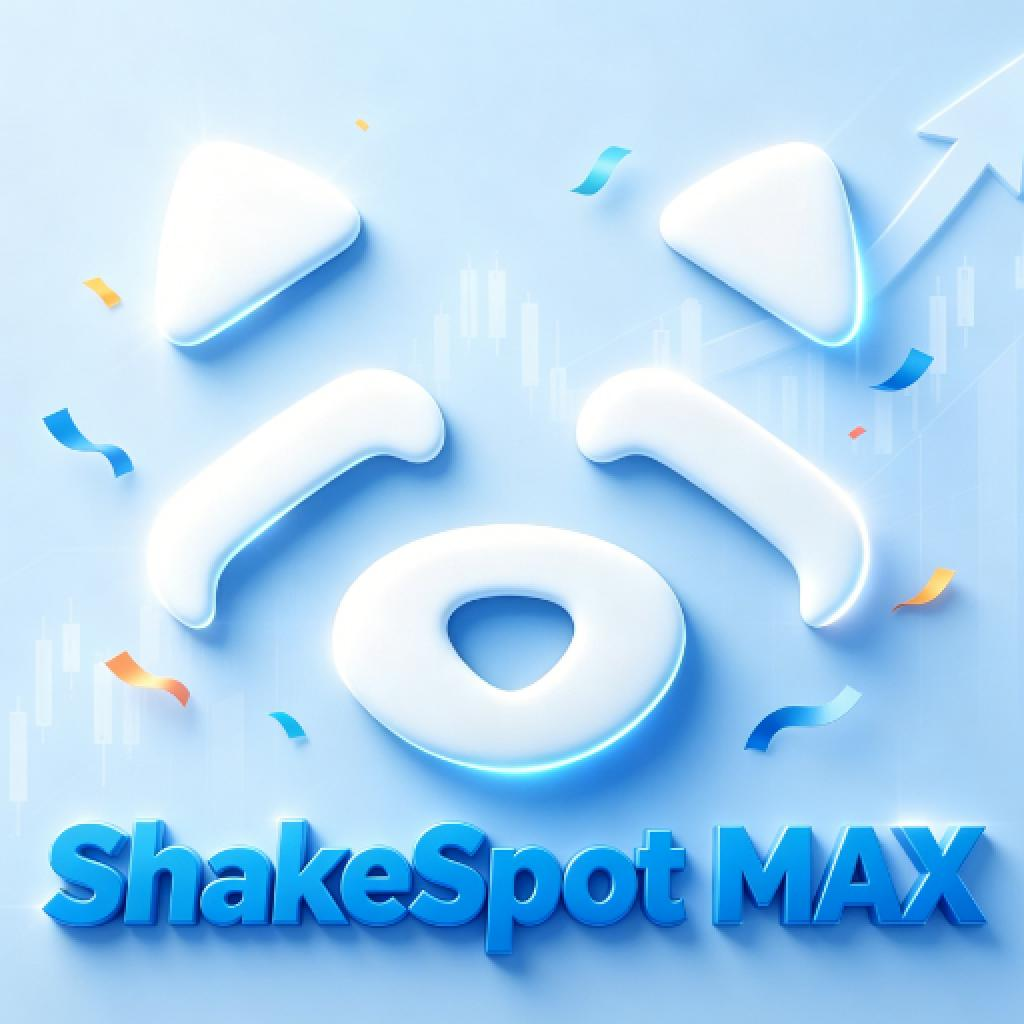
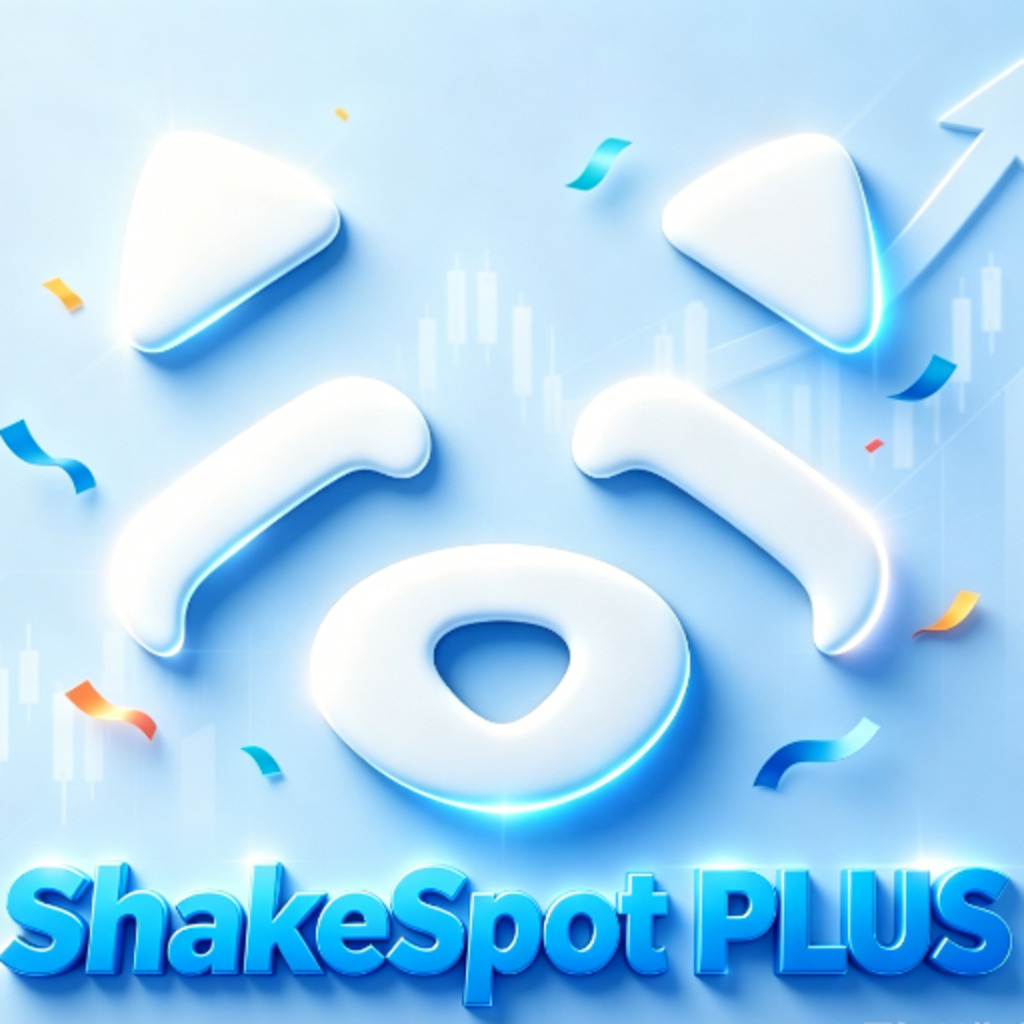
1

diff --git a/ShakeSpot-MAX/privacy.html b/ShakeSpot-MAX/privacy.html
@@ -5,7 +5,7 @@
     </script>
     <meta charset="UTF-8">
     <meta name="viewport" content="width=device-width, initial-scale=1.0">
-    <title>ShakeSpot MAX</title>
+    <title>ShakeSpot PLUS</title>
     <script>
         !function(e,n){"object"==typeof exports&&"undefined"!=typeof module?module.exports=n():"function"==typeof define&&define.amd?define(n):(e=e||self).uni=n()}(this,(function(){"use strict";try{var e={};Object.defineProperty(e,"passive",{get:function(){!0}}),window.addEventListener("test-passive",null,e)}catch(e){}var n=Object.prototype.hasOwnProperty;function i(e,i){return n.call(e,i)}var t=[];function o(){return window.__dcloud_weex_postMessage||window.__dcloud_weex_}function a(){return window.__uniapp_x_postMessage||window.__uniapp_x_}var r=function(e,n){var i={options:{timestamp:+new Date},name:e,arg:n};if(a()){if("postMessage"===e){var r={data:n};return window.__uniapp_x_postMessage?window.__uniapp_x_postMessage(r):window.__uniapp_x_.postMessage(JSON.stringify(r))}var d={type:"WEB_INVOKE_APPSERVICE",args:{data:i,webviewIds:t}};window.__uniapp_x_postMessage?window.__uniapp_x_postMessageToService(d):window.__uniapp_x_.postMessageToService(JSON.stringify(d))}else if(o()){if("postMessage"===e){var s={data:[n]};return window.__dcloud_weex_postMessage?window.__dcloud_weex_postMessage(s):window.__dcloud_weex_.postMessage(JSON.stringify(s))}var w={type:"WEB_INVOKE_APPSERVICE",args:{data:i,webviewIds:t}};window.__dcloud_weex_postMessage?window.__dcloud_weex_postMessageToService(w):window.__dcloud_weex_.postMessageToService(JSON.stringify(w))}else{if(!window.plus)return window.parent.postMessage({type:"WEB_INVOKE_APPSERVICE",data:i,pageId:""},"*");if(0===t.length){var u=plus.webview.currentWebview();if(!u)throw new Error("plus.webview.currentWebview() is undefined");var g=u.parent(),v="";v=g?g.id:u.id,t.push(v)}if(plus.webview.getWebviewById("__uniapp__service"))plus.webview.postMessageToUniNView({type:"WEB_INVOKE_APPSERVICE",args:{data:i,webviewIds:t}},"__uniapp__service");else{var c=JSON.stringify(i);plus.webview.getLaunchWebview().evalJS('UniPlusBridge.subscribeHandler("'.concat("WEB_INVOKE_APPSERVICE",'",').concat(c,",").concat(JSON.stringify(t),");"))}}},d={navigateTo:function(){var e=arguments.length>0&&void 0!==arguments[0]?arguments[0]:{},n=e.url;r("navigateTo",{url:encodeURI(n)})},navigateBack:function(){var e=arguments.length>0&&void 0!==arguments[0]?arguments[0]:{},n=e.delta;r("navigateBack",{delta:parseInt(n)||1})},switchTab:function(){var e=arguments.length>0&&void 0!==arguments[0]?arguments[0]:{},n=e.url;r("switchTab",{url:encodeURI(n)})},reLaunch:function(){var e=arguments.length>0&&void 0!==arguments[0]?arguments[0]:{},n=e.url;r("reLaunch",{url:encodeURI(n)})},redirectTo:function(){var e=arguments.length>0&&void 0!==arguments[0]?arguments[0]:{},n=e.url;r("redirectTo",{url:encodeURI(n)})},getEnv:function(e){a()?e({uvue:!0}):o()?e({nvue:!0}):window.plus?e({plus:!0}):e({h5:!0})},postMessage:function(){var e=arguments.length>0&&void 0!==arguments[0]?arguments[0]:{};r("postMessage",e.data||{})}},s=/uni-app/i.test(navigator.userAgent),w=/Html5Plus/i.test(navigator.userAgent),u=/complete|loaded|interactive/;var g=window.my&&navigator.userAgent.indexOf(["t","n","e","i","l","C","y","a","p","i","l","A"].reverse().join(""))>-1;var v=window.swan&&window.swan.webView&&/swan/i.test(navigator.userAgent);var c=window.qq&&window.qq.miniProgram&&/QQ/i.test(navigator.userAgent)&&/miniProgram/i.test(navigator.userAgent);var p=window.tt&&window.tt.miniProgram&&/toutiaomicroapp/i.test(navigator.userAgent);var _=window.wx&&window.wx.miniProgram&&/micromessenger/i.test(navigator.userAgent)&&/miniProgram/i.test(navigator.userAgent);var m=window.qa&&/quickapp/i.test(navigator.userAgent);var f=window.ks&&window.ks.miniProgram&&/micromessenger/i.test(navigator.userAgent)&&/miniProgram/i.test(navigator.userAgent);var l=window.tt&&window.tt.miniProgram&&/Lark|Feishu/i.test(navigator.userAgent);var E=window.jd&&window.jd.miniProgram&&/micromessenger/i.test(navigator.userAgent)&&/miniProgram/i.test(navigator.userAgent);var x=window.xhs&&window.xhs.miniProgram&&/xhsminiapp/i.test(navigator.userAgent);for(var S,h=function(){window.UniAppJSBridge=!0,document.dispatchEvent(new CustomEvent("UniAppJSBridgeReady",{bubbles:!0,cancelable:!0}))},y=[function(e){if(s||w)return window.__uniapp_x_postMessage||window.__uniapp_x_||window.__dcloud_weex_postMessage||window.__dcloud_weex_?document.addEventListener("DOMContentLoaded",e):window.plus&&u.test(document.readyState)?setTimeout(e,0):document.addEventListener("plusready",e),d},function(e){if(_)return window.WeixinJSBridge&&window.WeixinJSBridge.invoke?setTimeout(e,0):document.addEventListener("WeixinJSBridgeReady",e),window.wx.miniProgram},function(e){if(c)return window.QQJSBridge&&window.QQJSBridge.invoke?setTimeout(e,0):document.addEventListener("QQJSBridgeReady",e),window.qq.miniProgram},function(e){if(g){document.addEventListener("DOMContentLoaded",e);var n=window.my;return{navigateTo:n.navigateTo,navigateBack:n.navigateBack,switchTab:n.switchTab,reLaunch:n.reLaunch,redirectTo:n.redirectTo,postMessage:n.postMessage,getEnv:n.getEnv}}},function(e){if(v)return document.addEventListener("DOMContentLoaded",e),window.swan.webView},function(e){if(p)return document.addEventListener("DOMContentLoaded",e),window.tt.miniProgram},function(e){if(m){window.QaJSBridge&&window.QaJSBridge.invoke?setTimeout(e,0):document.addEventListener("QaJSBridgeReady",e);var n=window.qa;return{navigateTo:n.navigateTo,navigateBack:n.navigateBack,switchTab:n.switchTab,reLaunch:n.reLaunch,redirectTo:n.redirectTo,postMessage:n.postMessage,getEnv:n.getEnv}}},function(e){if(f)return window.WeixinJSBridge&&window.WeixinJSBridge.invoke?setTimeout(e,0):document.addEventListener("WeixinJSBridgeReady",e),window.ks.miniProgram},function(e){if(l)return document.addEventListener("DOMContentLoaded",e),window.tt.miniProgram},function(e){if(E)return window.JDJSBridgeReady&&window.JDJSBridgeReady.invoke?setTimeout(e,0):document.addEventListener("JDJSBridgeReady",e),window.jd.miniProgram},function(e){if(x)return window.xhs.miniProgram},function(e){return document.addEventListener("DOMContentLoaded",e),d}],M=0;M<y.length&&!(S=y[M](h));M++);S||(S={});var P="undefined"!=typeof uni?uni:{};if(!P.navigateTo)for(var b in S)i(S,b)&&(P[b]=S[b]);return P.webView=S,P}));
     </script>
@@ -43,29 +43,29 @@
         <div class="icon"><img src="./logo.jpg?--pro-target=A" id="logo" alt="logo"></div>
         <div style="height: 60px;"></div>
         <div class="content" style="flex: 1 1 0%;">
-            <div class="text">&nbsp;&nbsp;&nbsp;&nbsp;&nbsp;&nbsp;Privacy Policy for ShakeSpot MAX</div>
-            <div class="text">&nbsp;&nbsp;&nbsp;&nbsp;&nbsp;&nbsp;At ShakeSpot MAX , one of our main priorities is the privacy of our visitors. This Privacy Policy document contains types of information that is collected and recorded by ShakeSpot MAX and how we ShakeSpot MAXe it.</div>
-            <div class="text">&nbsp;&nbsp;&nbsp;&nbsp;&nbsp;&nbsp;If you have additional questions or require more information about our Privacy Policy, do not hesitate to contact ShakeSpot MAX.</div>
+            <div class="text">&nbsp;&nbsp;&nbsp;&nbsp;&nbsp;&nbsp;Privacy Policy for ShakeSpot PLUS</div>
+            <div class="text">&nbsp;&nbsp;&nbsp;&nbsp;&nbsp;&nbsp;At ShakeSpot PLUS , one of our main priorities is the privacy of our visitors. This Privacy Policy document contains types of information that is collected and recorded by ShakeSpot PLUS and how we ShakeSpot PLUSe it.</div>
+            <div class="text">&nbsp;&nbsp;&nbsp;&nbsp;&nbsp;&nbsp;If you have additional questions or require more information about our Privacy Policy, do not hesitate to contact ShakeSpot PLUS.</div>
             <div class="text">&nbsp;&nbsp;&nbsp;&nbsp;&nbsp;&nbsp;Log Files</div>
-            <div class="text">&nbsp;&nbsp;&nbsp;&nbsp;&nbsp;&nbsp;ShakeSpot MAX follows a standard procedure of ShakeSpot MAXing log files. These files log visitors when they ShakeSpot MAXe app. The information collected by log files include internet protocol (IP) addresses, browser type, Internet Service Provider (ISP), date and time stamp, referring/exit pages, and possibly the number of clicks. These are not linked to any information that is personally identifiable. The purpose of the information is for analyzing trends, administering the app, tracking ShakeSpot MAXers' movement on the app, and gathering demographic information.</div>
+            <div class="text">&nbsp;&nbsp;&nbsp;&nbsp;&nbsp;&nbsp;ShakeSpot PLUS follows a standard procedure of ShakeSpot PLUSing log files. These files log visitors when they ShakeSpot PLUSe app. The information collected by log files include internet protocol (IP) addresses, browser type, Internet Service Provider (ISP), date and time stamp, referring/exit pages, and possibly the number of clicks. These are not linked to any information that is personally identifiable. The purpose of the information is for analyzing trends, administering the app, tracking ShakeSpot PLUSers' movement on the app, and gathering demographic information.</div>
             <div class="text">&nbsp;&nbsp;&nbsp;&nbsp;&nbsp;&nbsp;Our Advertising Partners</div>
-            <div class="text">&nbsp;&nbsp;&nbsp;&nbsp;&nbsp;&nbsp;Some of advertisers in our app may ShakeSpot MAXe cookies and web beacons. Our advertising partners are listed below. Each of our advertising partners has their own Privacy Policy for their policies on ShakeSpot MAXer data. For easier access, we hyperlinked to their Privacy Policies below.</div>
+            <div class="text">&nbsp;&nbsp;&nbsp;&nbsp;&nbsp;&nbsp;Some of advertisers in our app may ShakeSpot PLUSe cookies and web beacons. Our advertising partners are listed below. Each of our advertising partners has their own Privacy Policy for their policies on ShakeSpot PLUSer data. For easier access, we hyperlinked to their Privacy Policies below.</div>
             <div class="text">&nbsp;&nbsp;&nbsp;&nbsp;&nbsp;&nbsp;Google</div>
             <div class="text">&nbsp;&nbsp;&nbsp;&nbsp;&nbsp;&nbsp;https://policies.google.com/technologies/ads</div>
             <div class="text">&nbsp;&nbsp;&nbsp;&nbsp;&nbsp;&nbsp;Privacy Policies</div>
-            <div class="text">&nbsp;&nbsp;&nbsp;&nbsp;&nbsp;&nbsp;You may consult this list to find the Privacy Policy for each of the advertising partners of ShakeSpot MAX .</div>
-            <div class="text">&nbsp;&nbsp;&nbsp;&nbsp;&nbsp;&nbsp;Third-party ad servers or ad networks ShakeSpot MAXes technologies like cookies, JavaScript, or Beacons that are ShakeSpot MAXed in their respective advertisements and links that appear on ShakeSpot MAX . They automatically receive your IP address when this occurs. These technologies are ShakeSpot MAXed to measure the effectiveness of their advertising campaigns and/or to personalize the advertising content that you see on this app or other apps or websites.</div>
-            <div class="text">&nbsp;&nbsp;&nbsp;&nbsp;&nbsp;&nbsp;Note that ShakeSpot MAX has no access to or control over these cookies that are ShakeSpot MAXed by third-party advertisers.</div>
+            <div class="text">&nbsp;&nbsp;&nbsp;&nbsp;&nbsp;&nbsp;You may consult this list to find the Privacy Policy for each of the advertising partners of ShakeSpot PLUS .</div>
+            <div class="text">&nbsp;&nbsp;&nbsp;&nbsp;&nbsp;&nbsp;Third-party ad servers or ad networks ShakeSpot PLUSes technologies like cookies, JavaScript, or Beacons that are ShakeSpot PLUSed in their respective advertisements and links that appear on ShakeSpot PLUS . They automatically receive your IP address when this occurs. These technologies are ShakeSpot PLUSed to measure the effectiveness of their advertising campaigns and/or to personalize the advertising content that you see on this app or other apps or websites.</div>
+            <div class="text">&nbsp;&nbsp;&nbsp;&nbsp;&nbsp;&nbsp;Note that ShakeSpot PLUS has no access to or control over these cookies that are ShakeSpot PLUSed by third-party advertisers.</div>
             <div class="text">&nbsp;&nbsp;&nbsp;&nbsp;&nbsp;&nbsp;Third Party Privacy Policies</div>
-            <div class="text">&nbsp;&nbsp;&nbsp;&nbsp;&nbsp;&nbsp;ShakeSpot MAX 's Privacy Policy does not apply to other advertisers or websites. ThShakeSpot MAX, we are advising you to consult the respective Privacy Policies of these third-party ad servers for more detailed information. It may include their practices and instructions about how to opt-out of certain options.</div>
+            <div class="text">&nbsp;&nbsp;&nbsp;&nbsp;&nbsp;&nbsp;ShakeSpot PLUS 's Privacy Policy does not apply to other advertisers or websites. ThShakeSpot PLUS, we are advising you to consult the respective Privacy Policies of these third-party ad servers for more detailed information. It may include their practices and instructions about how to opt-out of certain options.</div>
             <div class="text">&nbsp;&nbsp;&nbsp;&nbsp;&nbsp;&nbsp;Children's Information</div>
-            <div class="text">&nbsp;&nbsp;&nbsp;&nbsp;&nbsp;&nbsp;Another part of our priority is adding protection for children while ShakeSpot MAXing the internet. We encourage parents and guardians to observe, participate in, and/or monitor and guide their online activity.</div>
-            <div class="text">&nbsp;&nbsp;&nbsp;&nbsp;&nbsp;&nbsp;ShakeSpot MAX does not knowingly collect any Personal Identifiable Information from children under the age of 13. If you think that your child provided this kind of information on our App, we strongly encourage you to contact ShakeSpot MAX immediately and we will do our best efforts to promptly remove such information from our records.</div>
+            <div class="text">&nbsp;&nbsp;&nbsp;&nbsp;&nbsp;&nbsp;Another part of our priority is adding protection for children while ShakeSpot PLUSing the internet. We encourage parents and guardians to observe, participate in, and/or monitor and guide their online activity.</div>
+            <div class="text">&nbsp;&nbsp;&nbsp;&nbsp;&nbsp;&nbsp;ShakeSpot PLUS does not knowingly collect any Personal Identifiable Information from children under the age of 13. If you think that your child provided this kind of information on our App, we strongly encourage you to contact ShakeSpot PLUS immediately and we will do our best efforts to promptly remove such information from our records.</div>
             <div class="text">&nbsp;&nbsp;&nbsp;&nbsp;&nbsp;&nbsp;Online Privacy Policy Only</div>
-            <div class="text">&nbsp;&nbsp;&nbsp;&nbsp;&nbsp;&nbsp;This Privacy Policy applies only to our online activities and is valid for visitors to our App with regards to the information that they shared and/or collect in ShakeSpot MAX . This policy is not applicable to any information collected offline or via channels other than this app. Our Privacy Policy was created with the help of the App Privacy Policy Generator from App-Privacy-Policy.com</div>
+            <div class="text">&nbsp;&nbsp;&nbsp;&nbsp;&nbsp;&nbsp;This Privacy Policy applies only to our online activities and is valid for visitors to our App with regards to the information that they shared and/or collect in ShakeSpot PLUS . This policy is not applicable to any information collected offline or via channels other than this app. Our Privacy Policy was created with the help of the App Privacy Policy Generator from App-Privacy-Policy.com</div>
             <div class="text">&nbsp;&nbsp;&nbsp;&nbsp;&nbsp;&nbsp;Consent</div>
-            <div class="text">&nbsp;&nbsp;&nbsp;&nbsp;&nbsp;&nbsp;By ShakeSpot MAXing our app, you hereby consent to our Privacy Policy and agree to its Terms and Conditions.</div>
-            <div class="text">&nbsp;&nbsp;&nbsp;&nbsp;&nbsp;&nbsp;Generated ShakeSpot MAXing App Privacy Policy Generator</div>
+            <div class="text">&nbsp;&nbsp;&nbsp;&nbsp;&nbsp;&nbsp;By ShakeSpot PLUSing our app, you hereby consent to our Privacy Policy and agree to its Terms and Conditions.</div>
+            <div class="text">&nbsp;&nbsp;&nbsp;&nbsp;&nbsp;&nbsp;Generated ShakeSpot PLUSing App Privacy Policy Generator</div>
         </div>
         <div style="height: 80px; display: flex; justify-content: center; align-items: center;">
             <div class="btn">I Agree</div>

diff --git a/ShakeSpot-MAX/privacy-police.html b/ShakeSpot-MAX/privacy-police.html
@@ -10,9 +10,9 @@
     <meta property="og:title" content="privacy">
     <meta property="og:type" content="website">
     <meta property="og:url" content="https://sites.google.com/view/globex-plus/privacy">
-    <meta property="og:description" content="Privacy Policy for ShakeSpot MAX Privacy Policy Last updated: July 19, 2024 This Privacy Policy describes Our policies and procedures on the collection, use and disclosure of Your information when You use the Service and tells You about Your privacy rights and how the law protects You. We use Your">
+    <meta property="og:description" content="Privacy Policy for ShakeSpot PLUS Privacy Policy Last updated: July 19, 2024 This Privacy Policy describes Our policies and procedures on the collection, use and disclosure of Your information when You use the Service and tells You about Your privacy rights and how the law protects You. We use Your">
     <meta itemprop="name" content="privacy">
-    <meta itemprop="description" content="Privacy Policy for ShakeSpot MAX Privacy Policy Last updated: July 19, 2024 This Privacy Policy describes Our policies and procedures on the collection, use and disclosure of Your information when You use the Service and tells You about Your privacy rights and how the law protects You. We use Your">
+    <meta itemprop="description" content="Privacy Policy for ShakeSpot PLUS Privacy Policy Last updated: July 19, 2024 This Privacy Policy describes Our policies and procedures on the collection, use and disclosure of Your information when You use the Service and tells You about Your privacy rights and how the law protects You. We use Your">
     <meta itemprop="url" content="https://sites.google.com/view/globex-plus/privacy">
     <link
         href="https://fonts.googleapis.com/css?family=Lato%3A300%2C300italic%2C400%2C400italic%2C700%2C700italic&amp;display=swap"
@@ -1827,7 +1827,7 @@
                                                                             style="color: #ffffff; font-family: Lato, Arial; font-variant: normal; font-weight: 400; vertical-align: baseline;">Privacy
                                                                             Policy for </span><span
                                                                             class="Rn3Z1b C9DxTc "
-                                                                            style="color: #ffffff; font-family: Lato, Arial; font-weight: 400; vertical-align: baseline;">ShakeSpot MAX</span>
+                                                                            style="color: #ffffff; font-family: Lato, Arial; font-weight: 400; vertical-align: baseline;">ShakeSpot PLUS</span>
                                                                     </h1>
                                                                 </div>
                                                             </div>
@@ -1865,7 +1865,7 @@
                                                                             class="C9DxTc "
                                                                             style="color: #212121; font-variant: normal;">Privacy
                                                                             Policy for </span><span class="C9DxTc "
-                                                                            style="color: #212121;">ShakeSpot MAX</span></p>
+                                                                            style="color: #212121;">ShakeSpot PLUS</span></p>
                                                                     <br>
                                                                     <p dir="ltr" class="zfr3Q CDt4Ke "
                                                                         style="line-height: 2.00004;"><span
